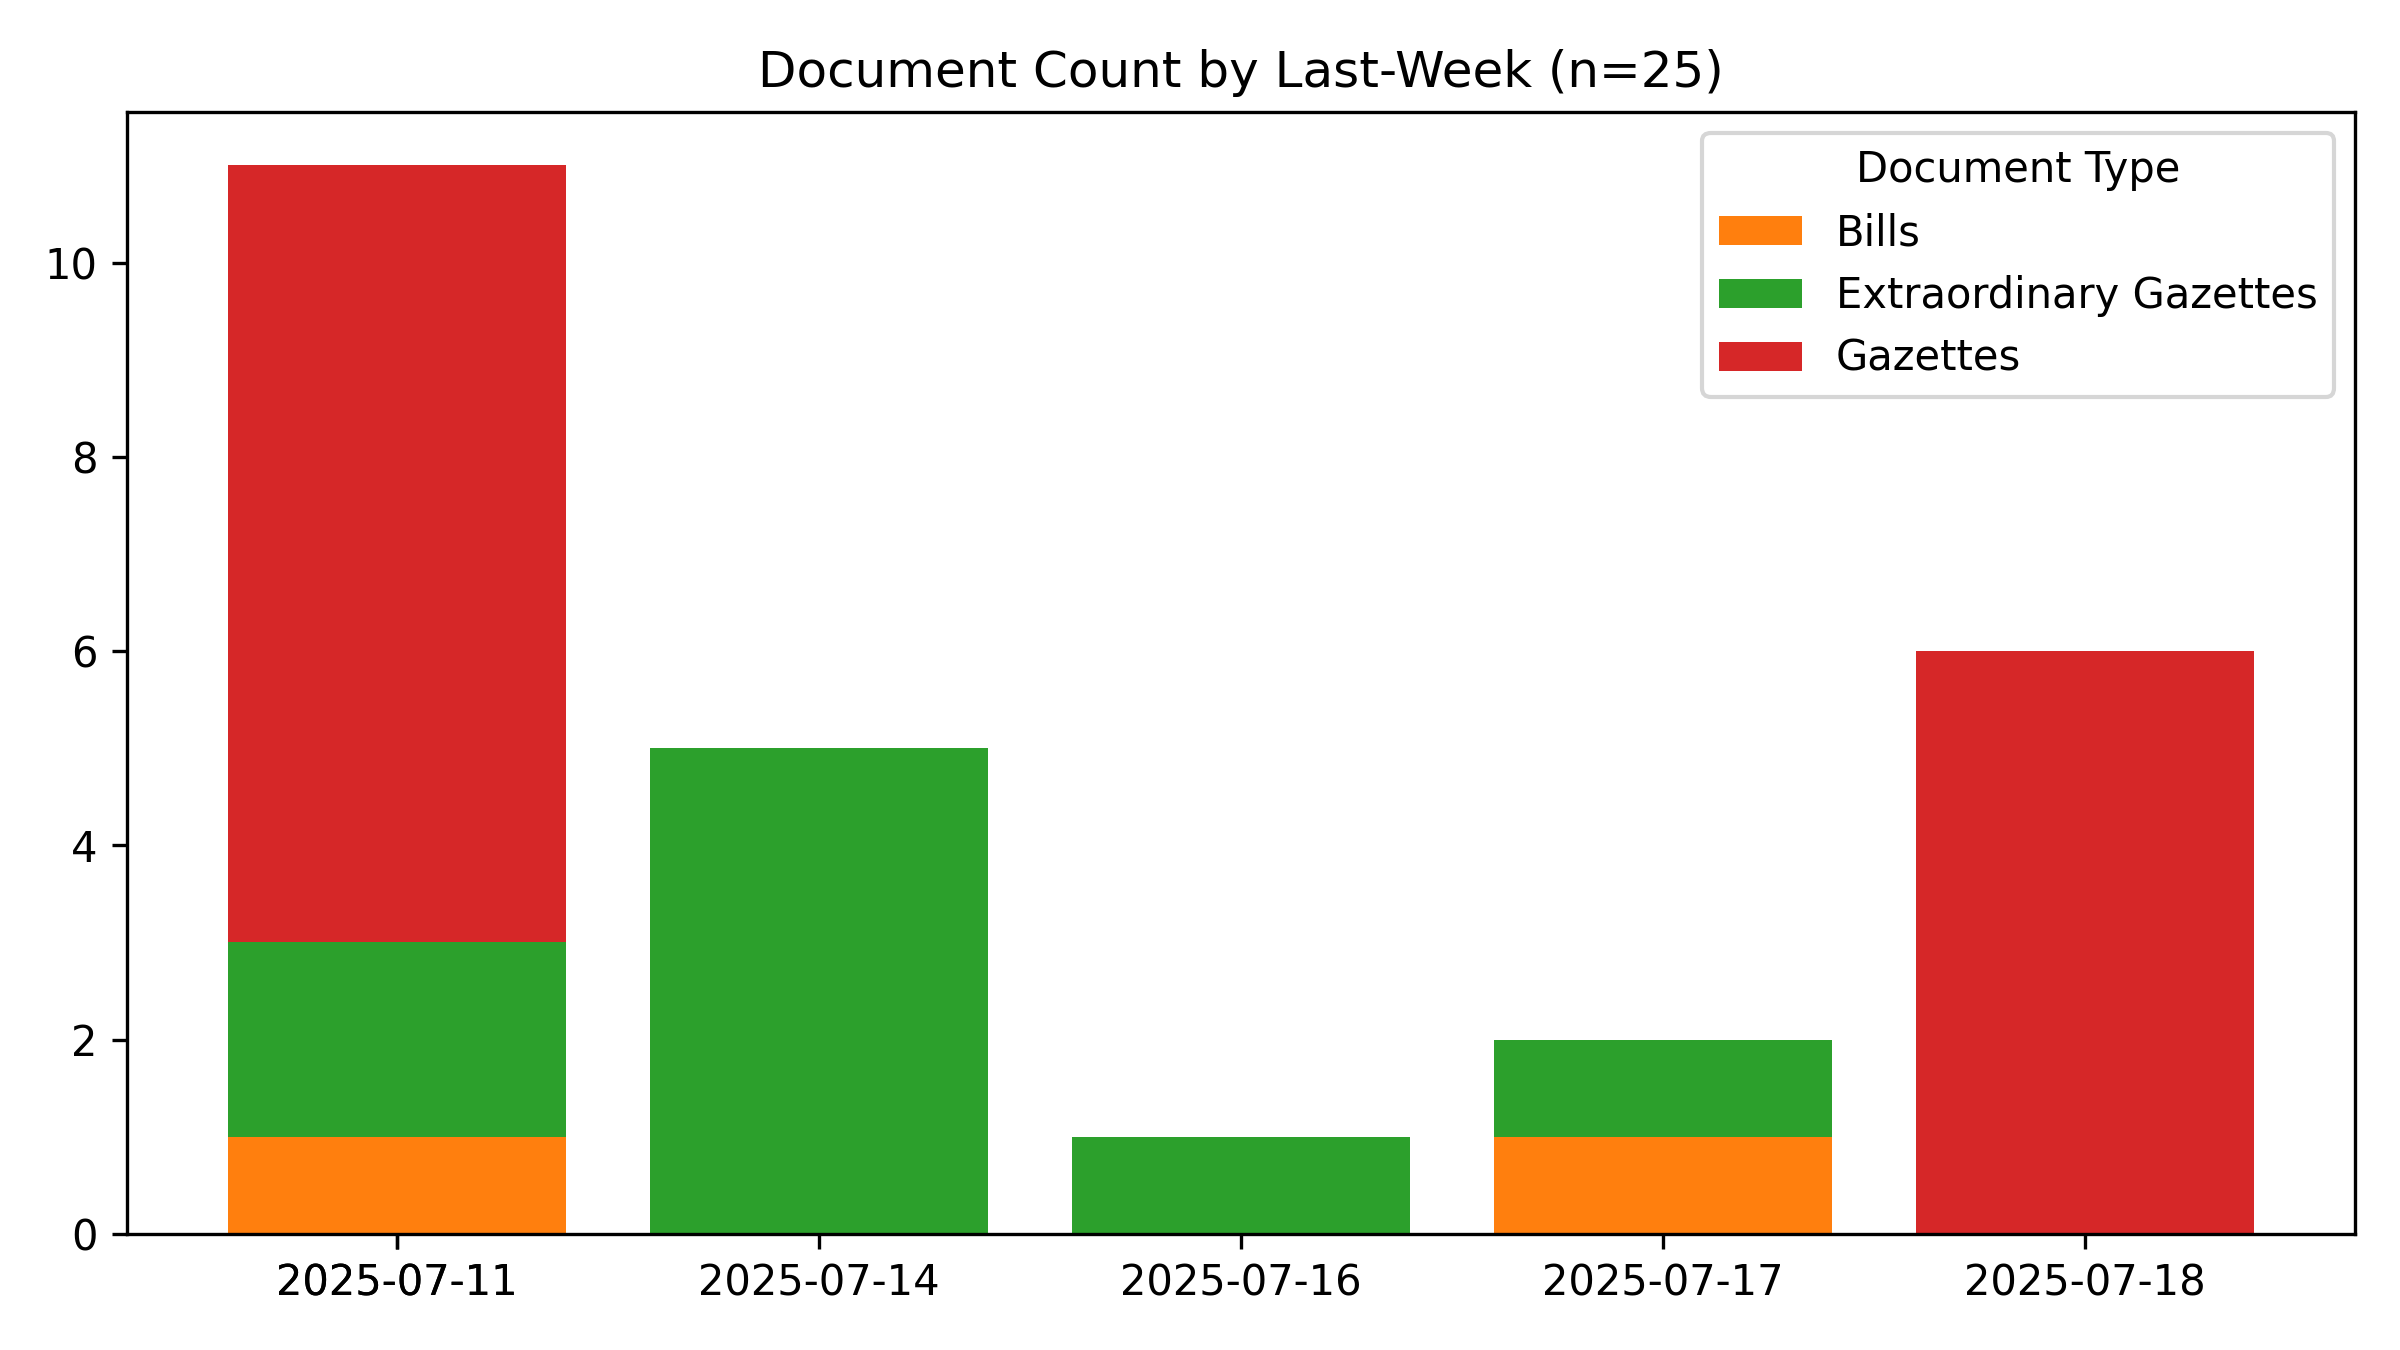
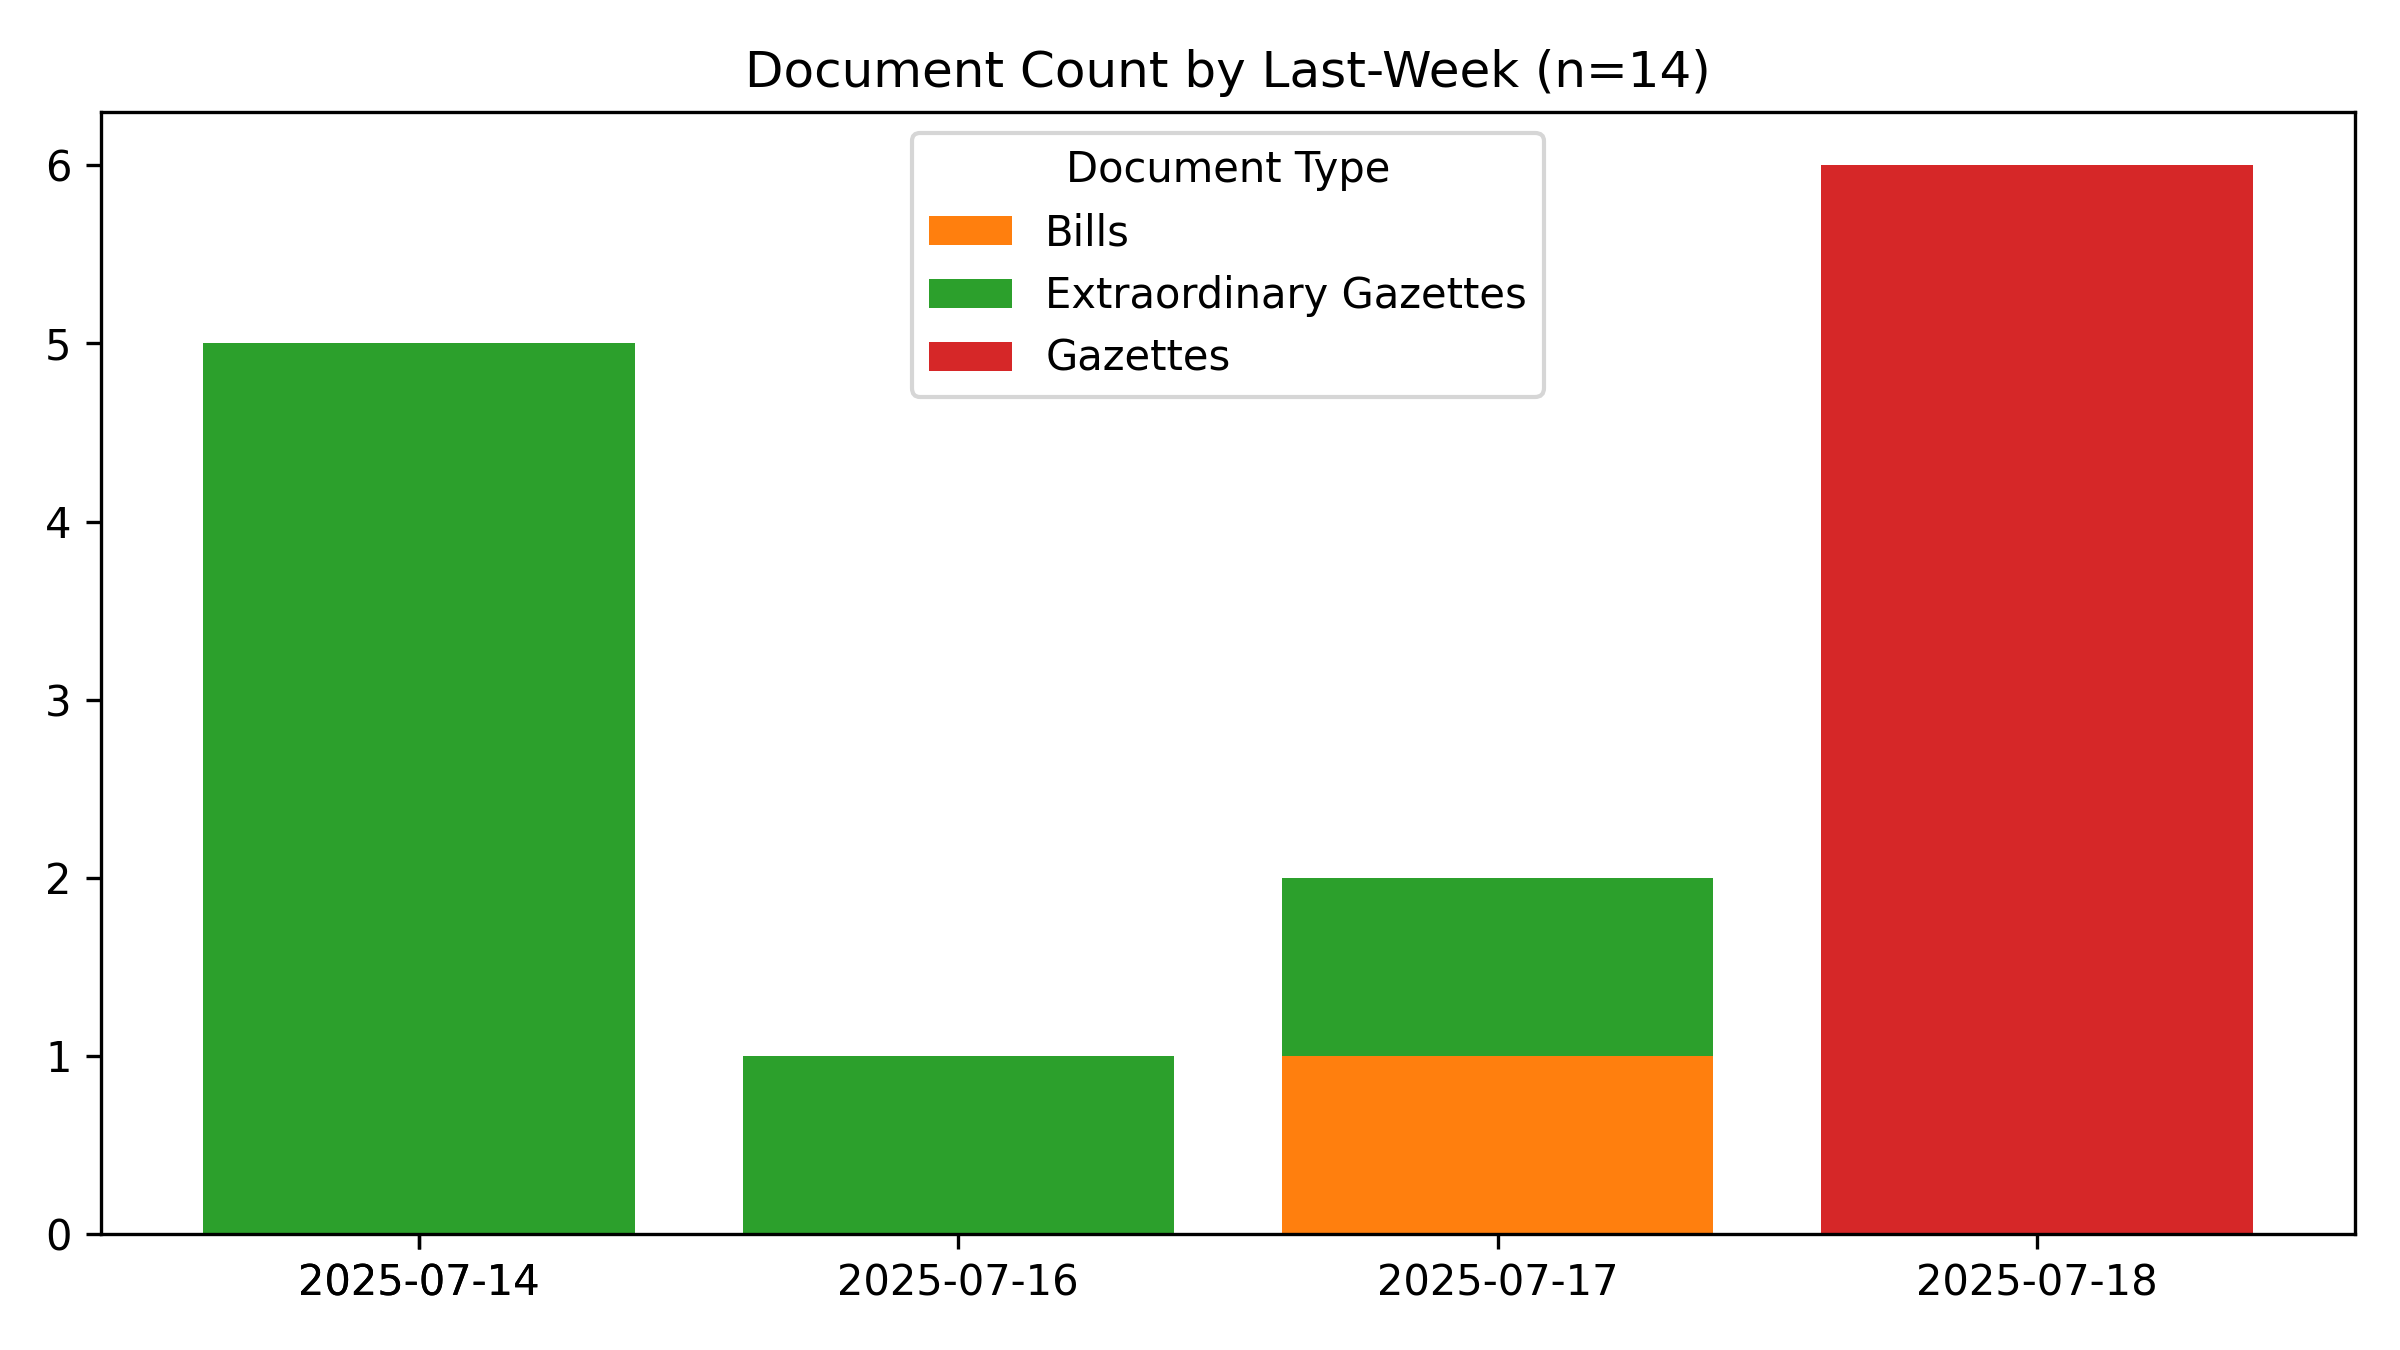
🤖 [data_scraper.yml] 2025-07-19-0008

diff --git a/README.md b/README.md
@@ -1,6 +1,6 @@
 # #SriLanka 🇱🇰 - Legal Documents #Dataset
 
-*Last Updated **2025-07-19 05:21:32**.*
+*Last Updated **2025-07-19 05:38:18**.*
 
 **44,055** documents (40.9 MB), from 1981-01-22 to 2025-07-18.
 
@@ -16,7 +16,7 @@ A collection of 📢 Gazettes, 🚨 Extraordinary Gazettes, 🏛 Acts, ✍
 
 #Legal #OpenData #GovTech
 
-📄 Currently, 49,246 PDFs (20.3 GB) for **17,827** documents (40.5%) have been downloaded. Final data size is estimated to be ~50 GB.
+📄 Currently, 49,247 PDFs (20.3 GB) for **17,827** documents (40.5%) have been downloaded. Final data size is estimated to be ~50 GB.
 
 ## 🆕 The Legal Documents App
 
@@ -45,7 +45,7 @@ For best results, use a desktop browser.
 
 ## Recent Documents (Published during the last 7 days)
 
-**25** Documents
+**14** Documents
 
 - 📢 [2025-07-18] [Legal Section](https://github.com/nuuuwan/lk_legal_docs_data/tree/main/data/gazettes/2025/2025-07-18-legal-section)
 - 📢 [2025-07-18] [Land Section](https://github.com/nuuuwan/lk_legal_docs_data/tree/main/data/gazettes/2025/2025-07-18-land-section)
@@ -61,14 +61,3 @@ For best results, use a desktop browser.
 - 🚨 [2025-07-14] [2445/03](https://github.com/nuuuwan/lk_legal_docs_data/tree/main/data/extra-gazettes/2025/2445-03)
 - 🚨 [2025-07-14] [2445/02](https://github.com/nuuuwan/lk_legal_docs_data/tree/main/data/extra-gazettes/2025/2445-02)
 - 🚨 [2025-07-14] [Sri Lanka Customs - Rates of Exchange with effect from 14.07.2025 to 20.07.2025](https://github.com/nuuuwan/lk_legal_docs_data/tree/main/data/extra-gazettes/2025/2445-01)
-- ✍ [2025-07-11] [Mediation (Civil and Commercial Disputes) - Bill](https://github.com/nuuuwan/lk_legal_docs_data/tree/main/data/bills/2025/622-2025)
-- 🚨 [2025-07-11] [Election Commission - Notice under Section 66 (2) Elected to Members for 08 L.G Institutions](https://github.com/nuuuwan/lk_legal_docs_data/tree/main/data/extra-gazettes/2025/2444-60)
-- 🚨 [2025-07-11] [2444/59](https://github.com/nuuuwan/lk_legal_docs_data/tree/main/data/extra-gazettes/2025/2444-59)
-- 📢 [2025-07-11] [Legal Section](https://github.com/nuuuwan/lk_legal_docs_data/tree/main/data/gazettes/2025/2025-07-11-legal-section)
-- 📢 [2025-07-11] [Land Section](https://github.com/nuuuwan/lk_legal_docs_data/tree/main/data/gazettes/2025/2025-07-11-land-section)
-- 📢 [2025-07-11] [IV (B) - Local Government](https://github.com/nuuuwan/lk_legal_docs_data/tree/main/data/gazettes/2025/2025-07-11-iv-b-local-government)
-- 📢 [2025-07-11] [IV (A) - Provincial Councils](https://github.com/nuuuwan/lk_legal_docs_data/tree/main/data/gazettes/2025/2025-07-11-iv-a-provincial-councils)
-- 📢 [2025-07-11] [(III) - TRADE MARKS AND PATENT NOTICES](https://github.com/nuuuwan/lk_legal_docs_data/tree/main/data/gazettes/2025/2025-07-11-iii-trade-marks-and-patent-notices)
-- 📢 [2025-07-11] [(IIB) - Advertising](https://github.com/nuuuwan/lk_legal_docs_data/tree/main/data/gazettes/2025/2025-07-11-iib-advertising)
-- 📢 [2025-07-11] [(IIA) - Advertising](https://github.com/nuuuwan/lk_legal_docs_data/tree/main/data/gazettes/2025/2025-07-11-iia-advertising)
-- 📢 [2025-07-11] [(I) - General](https://github.com/nuuuwan/lk_legal_docs_data/tree/main/data/gazettes/2025/2025-07-11-i-general)
